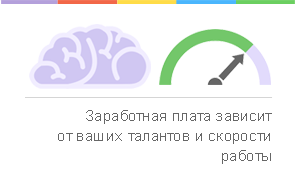
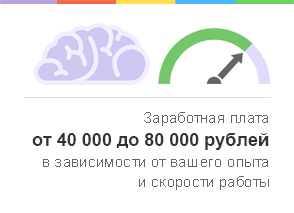
vacancy fix

diff --git a/less/vacancy.less b/less/vacancy.less
@@ -249,7 +249,7 @@
     }
     &_pay {
         width: 295px;
-        height: 185px;
+        height: 213px;
         margin: 0 -25px;
         background: url('@{path-img}/pay.png') no-repeat;
     }

diff --git a/stylesheets/vacancy.css b/stylesheets/vacancy.css
@@ -249,7 +249,7 @@
 }
 .requirements_pay {
   width: 295px;
-  height: 185px;
+  height: 213px;
   margin: 0 -25px;
   background: url('/images/vacancy/pay.png') no-repeat;
 }

diff --git a/html/utilities/vacancy-web-developr.php b/html/utilities/vacancy-web-developr.php
@@ -52,6 +52,7 @@
 						<li class="vacancy_li">Каждый день можно разрабатывать новые и интересные задачи.  Это отличная возможность получать знания.</li>
 						<li class="vacancy_li">Мы развиваем свой продукт, поэтому выбираем долгосрочные решения.</li>
 						<li class="vacancy_li">Никакого перебрасывания с проекта на проект. Мы “готовим” один продукт, поэтому будет возможность обустроить свое рабочее место.</li>
+						<li class="vacancy_li">Достойную заработную плату (от  40 000 до 80 000 рублей)</li>
 					</ul>
 				</div>
 			</div>
